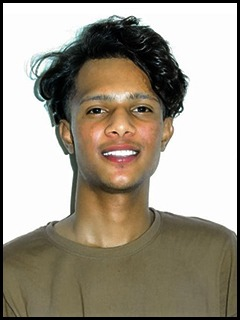
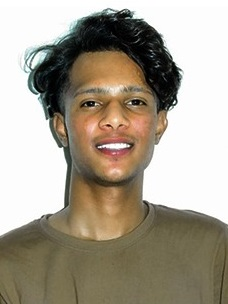
printing cv...

diff --git a/index.html b/index.html
@@ -159,7 +159,7 @@
         <p id="nameT1" >ravi kumar dhawan</p>
         <p id="contactT" >+91-12423423523,+91-3464356436</p>
         <p id="addressT" >23-c sector delhi</p>
-        <hr>
+        
         <p > <a  id="fbT" href="#1"> </a></p>
         <p  > <a  id="instaT" href="#1"> </a></p>
         <p  > <a id="githubT" href="#1"> </a></p>

diff --git a/style.css b/style.css
@@ -1,6 +1,11 @@
-*{
-  background-color: black;
+/* *{ */
+  /* background-color: black;
   color: white;
+} */
+.img-fluid{
+  border-radius: 70%;
+  max-width: 50% !important;
+    height: auto;
 }
 #cv-form{
   /* display: none; */
